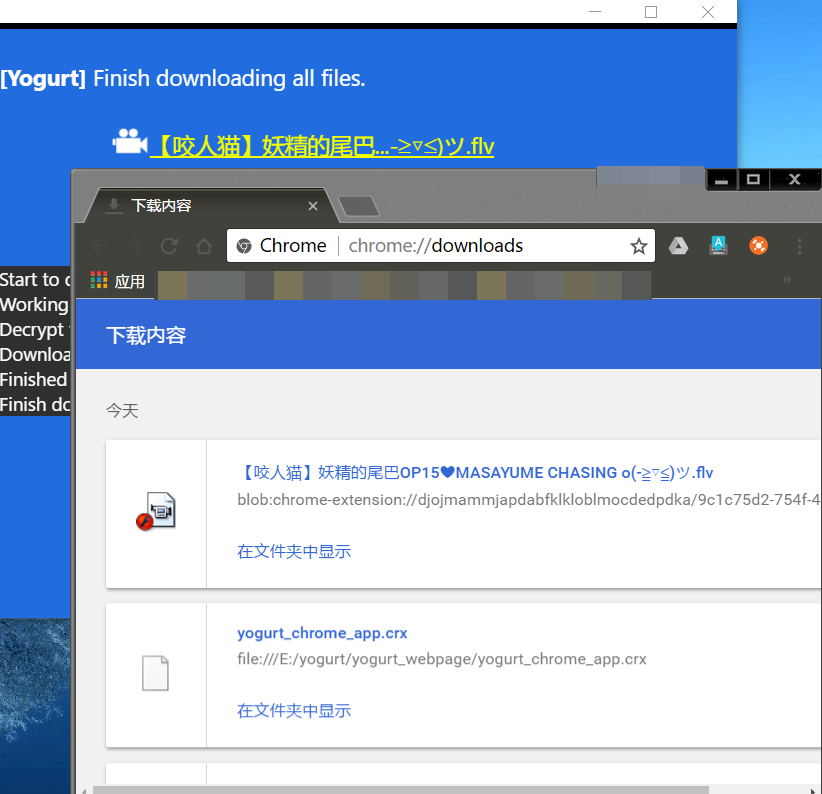
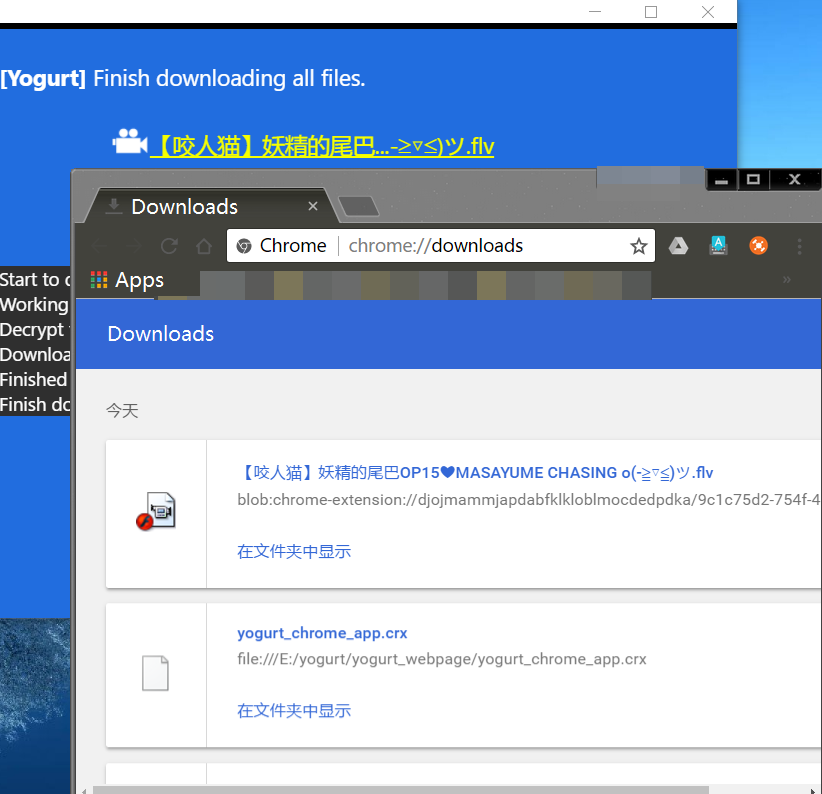
Update English

Changed region(s): [[0.1217, 0.3325, 0.2737, 0.4534], [0.1521, 0.2418, 0.3041, 0.272]]

diff --git a/support_vs.html b/support_vs.html
@@ -14,62 +14,62 @@
 <div id='container' class='div_container'>
 
 	<div class='div_box'>
-	<p class='p_title'><a style='text-decoration: none;' href='index.html'>Yogurt<img src='imgs/icon.png'></a>视频支持</p>
+	<p class='p_title'><a style='text-decoration: none;' href='index.html'>Yogurt<img src='imgs/icon.png'></a>Supported Websites</p>
 	</div>
 	
 	<div class='div_box'>
-	<p>(这个列表是2017年5月31日测试的结果。)</p>
-	<p>支持的页面</p>
+	<p>(Result of 05/31/2017)</p>
+	<p>Supported Websites</p>
 	<table>
-	  <tr><th>视频网站</th><th>网址</th><th>支持？</th></tr>
+	  <tr><th>Websites</th><th>URL</th><th>Supported?</th></tr>
 	  <tr><td>哔哩哔哩 Bilibili</td><td><a href='http://www.bilibili.com/' target='_target'>http://www.bilibili.com/</a></td><td>支持</td></tr>
-	  <tr><td>央视网</td><td><a href='http://www.cntv.cn/' target='_target'>http://www.cntv.cn/</a></td><td>支持</td></tr>
-	  <tr><td>土豆网</td><td><a href='http://www.tudou.com/' target='_target'>http://www.tudou.com/</a></td><td>支持</td></tr>
-	  <tr><td>优酷网</td><td><a href='http://www.youku.com/' target='_target'>http://www.youku.com/</a></td><td>支持</td></tr>
-	  <tr><td>新浪视频</td><td><a href='http://video.sina.com.cn/' target='_target'>http://video.sina.com.cn/</a></td><td>支持</td></tr>
-	  <tr><td>酷我音乐</td><td><a href='http://www.kuwo.cn/' target='_target'>http://www.kuwo.cn/</a></td><td>支持</td></tr>
-	  <tr><td>TED</td><td><a href='http://www.ted.com/' target='_target'>http://www.ted.com/</a></td><td>支持</td></tr>
-	  <tr><td>音悦Tai</td><td><a href='http://www.yinyuetai.com/' target='_target'>http://www.yinyuetai.com/</a></td><td>支持</td></tr>
-	  <tr><td>乐视</td><td><a href='http://www.letv.com/' target='_target'>http://www.letv.com/</a></td><td>支持</td></tr>
+	  <tr><td>央视网</td><td><a href='http://www.cntv.cn/' target='_target'>http://www.cntv.cn/</a></td><td>Yes</td></tr>
+	  <tr><td>土豆网</td><td><a href='http://www.tudou.com/' target='_target'>http://www.tudou.com/</a></td><td>Yes</td></tr>
+	  <tr><td>优酷网</td><td><a href='http://www.youku.com/' target='_target'>http://www.youku.com/</a></td><td>Yes</td></tr>
+	  <tr><td>新浪视频</td><td><a href='http://video.sina.com.cn/' target='_target'>http://video.sina.com.cn/</a></td><td>Yes</td></tr>
+	  <tr><td>酷我音乐</td><td><a href='http://www.kuwo.cn/' target='_target'>http://www.kuwo.cn/</a></td><td>Yes</td></tr>
+	  <tr><td>TED</td><td><a href='http://www.ted.com/' target='_target'>http://www.ted.com/</a></td><td>Yes</td></tr>
+	  <tr><td>音悦Tai</td><td><a href='http://www.yinyuetai.com/' target='_target'>http://www.yinyuetai.com/</a></td><td>Yes</td></tr>
+	  <tr><td>乐视</td><td><a href='http://www.letv.com/' target='_target'>http://www.letv.com/</a></td><td>Yes</td></tr>
 	</table>
-	<p>部分支持/近期开发中的页面</p>
+	<p>Partially Supported  / in Developing</p>
 	<table>
-	  <tr><th>视频网站</th><th>网址</th><th>视频下载？</th></tr>
-	  <tr><td>YouTube</td><td><a href='http://www.youtube.com/' target='_target'>http://www.youtube.com/</a></td><td>开发中</td></tr>
-	  <tr><td>豆瓣</td><td><a href='http://www.douban.com/' target='_target'>http://www.douban.com/</a></td><td>开发中</td></tr>
-	  <tr><td>凤凰视频</td><td><a href='http://v.ifeng.com/' target='_target'>http://v.ifeng.com/</a></td><td>开发中</td></tr>
-	  <tr><td>风行网</td><td><a href='http://www.fun.tv/' target='_target'>http://www.fun.tv/</a></td><td>开发中</td></tr>
-	  <tr><td>腾讯视频</td><td><a href='http://v.qq.com/' target='_target'>http://v.qq.com/</a></td><td>开发中</td></tr>
+	  <tr><th>Websites</th><th>URL</th><th>Supported?</th></tr>
+	  <tr><td>YouTube</td><td><a href='http://www.youtube.com/' target='_target'>http://www.youtube.com/</a></td><td>Developing</td></tr>
+	  <tr><td>豆瓣</td><td><a href='http://www.douban.com/' target='_target'>http://www.douban.com/</a></td><td>Developing</td></tr>
+	  <tr><td>凤凰视频</td><td><a href='http://v.ifeng.com/' target='_target'>http://v.ifeng.com/</a></td><td>Developing</td></tr>
+	  <tr><td>风行网</td><td><a href='http://www.fun.tv/' target='_target'>http://www.fun.tv/</a></td><td>Developing</td></tr>
+	  <tr><td>腾讯视频</td><td><a href='http://v.qq.com/' target='_target'>http://v.qq.com/</a></td><td>Developing</td></tr>
 	</table>
-	<p>未来开发中的页面</p>
+	<p>Plan in the Future</p>
 	<table>
-	  <tr><th>视频网站</th><th>网址</th><th>视频下载？</th></tr>
-	  <tr><td>爱奇艺</td><td><a href='http://www.iqiyi.com/' target='_target'>http://www.iqiyi.com/</a></td><td>开发中</td></tr>
-	  <tr><td>虾米</td><td><a href='http://www.xiami.com/' target='_target'>http://www.xiami.com/</a></td><td>开发中</td></tr>
-	  <tr><td>搜狐视频</td><td><a href='http://tv.sohu.com/' target='_target'>http://tv.sohu.com/</a></td><td>开发中</td></tr>
-	  <tr><td>酷6网</td><td><a href='http://www.ku6.com/' target='_target'>http://www.ku6.com/</a></td><td>开发中</td></tr>
-	  <tr><td>网易音乐</td><td><a href='http://music.163.com/' target='_target'>http://music.163.com/</a></td><td>开发中</td></tr>
-	  <tr><td>网易视频</td><td><a href='http://v.163.com/' target='_target'>http://v.163.com/</a></td><td>开发中</td></tr>
-	  <tr><td>56视频</td><td><a href='http://www.56.com/' target='_target'>http://www.56.com/</a></td><td>开发中</td></tr>
-	  <tr><td>爆米花网</td><td><a href='http://www.baomihua.com/' target='_target'>http://www.baomihua.com/</a></td><td>开发中</td></tr>
-	  <tr><td>acfun</td><td><a href='http://www.acfun.tv/' target='_target'>http://www.acfun.tv/</a></td><td>开发中</td></tr>
-	  <tr><td>DiliDili</td><td><a href='http://www.dilidili.com/' target='_target'>http://www.dilidili.com/</a></td><td>开发中</td></tr>	
-	  <tr><td>斗鱼</td><td><a href='http://www.douyutv.com/' target='_target'>http://www.douyutv.com/</a></td><td>开发中</td></tr>
-	  <tr><td>激动网</td><td><a href='http://www.joy.cn/' target='_target'>http://www.joy.cn/</a></td><td>开发中</td></tr>
-	  <tr><td>酷狗音乐</td><td><a href='http://www.kugou.com/' target='_target'>http://www.kugou.com/</a></td><td>开发中</td></tr>	
+	  <tr><th>Websites</th><th>URL</th><th>Supported?</th></tr>
+	  <tr><td>爱奇艺</td><td><a href='http://www.iqiyi.com/' target='_target'>http://www.iqiyi.com/</a></td><td>Developing</td></tr>
+	  <tr><td>虾米</td><td><a href='http://www.xiami.com/' target='_target'>http://www.xiami.com/</a></td><td>Developing</td></tr>
+	  <tr><td>搜狐视频</td><td><a href='http://tv.sohu.com/' target='_target'>http://tv.sohu.com/</a></td><td>Developing</td></tr>
+	  <tr><td>酷6网</td><td><a href='http://www.ku6.com/' target='_target'>http://www.ku6.com/</a></td><td>Developing</td></tr>
+	  <tr><td>网易音乐</td><td><a href='http://music.163.com/' target='_target'>http://music.163.com/</a></td><td>Developing</td></tr>
+	  <tr><td>网易视频</td><td><a href='http://v.163.com/' target='_target'>http://v.163.com/</a></td><td>Developing</td></tr>
+	  <tr><td>56视频</td><td><a href='http://www.56.com/' target='_target'>http://www.56.com/</a></td><td>Developing</td></tr>
+	  <tr><td>爆米花网</td><td><a href='http://www.baomihua.com/' target='_target'>http://www.baomihua.com/</a></td><td>Developing</td></tr>
+	  <tr><td>acfun</td><td><a href='http://www.acfun.tv/' target='_target'>http://www.acfun.tv/</a></td><td>Developing</td></tr>
+	  <tr><td>DiliDili</td><td><a href='http://www.dilidili.com/' target='_target'>http://www.dilidili.com/</a></td><td>Developing</td></tr>	
+	  <tr><td>斗鱼</td><td><a href='http://www.douyutv.com/' target='_target'>http://www.douyutv.com/</a></td><td>Developing</td></tr>
+	  <tr><td>激动网</td><td><a href='http://www.joy.cn/' target='_target'>http://www.joy.cn/</a></td><td>Developing</td></tr>
+	  <tr><td>酷狗音乐</td><td><a href='http://www.kugou.com/' target='_target'>http://www.kugou.com/</a></td><td>Developing</td></tr>	
 
-	  <tr><td>Twitter</td><td><a href='http://twitter.com/' target='_target'>http://twitter.com/</a></td><td>开发中</td></tr>
-	  <tr><td>VK</td><td><a href='http://vk.com/' target='_target'>http://vk.com/</a></td><td>开发中</td></tr>
-	  <tr><td>Vine</td><td><a href='https://vine.co/' target='_target'>https://vine.co/</a></td><td>开发中</td></tr>
-	  <tr><td>Vimeo</td><td><a href='https://vimeo.com/' target='_target'>https://vimeo.com/</a></td><td>开发中</td></tr>
-	  <tr><td>Vidto</td><td><a href='http://vidto.me/' target='_target'>http://vidto.me/</a></td><td>开发中</td></tr>
-	  <tr><td>Veoh</td><td><a href='http://www.veoh.com/' target='_target'>http://www.veoh.com/</a></td><td>开发中</td></tr>
-	  <tr><td>Tumblr</td><td><a href='https://www.tumblr.com/' target='_target'>https://www.tumblr.com/</a></td><td>开发中</td></tr>
+	  <tr><td>Twitter</td><td><a href='http://twitter.com/' target='_target'>http://twitter.com/</a></td><td>Developing</td></tr>
+	  <tr><td>VK</td><td><a href='http://vk.com/' target='_target'>http://vk.com/</a></td><td>Developing</td></tr>
+	  <tr><td>Vine</td><td><a href='https://vine.co/' target='_target'>https://vine.co/</a></td><td>Developing</td></tr>
+	  <tr><td>Vimeo</td><td><a href='https://vimeo.com/' target='_target'>https://vimeo.com/</a></td><td>Developing</td></tr>
+	  <tr><td>Vidto</td><td><a href='http://vidto.me/' target='_target'>http://vidto.me/</a></td><td>Developing</td></tr>
+	  <tr><td>Veoh</td><td><a href='http://www.veoh.com/' target='_target'>http://www.veoh.com/</a></td><td>Developing</td></tr>
+	  <tr><td>Tumblr</td><td><a href='https://www.tumblr.com/' target='_target'>https://www.tumblr.com/</a></td><td>Developing</td></tr>
 	</table>
 	</div>
 
 	<div class='div_box'>
-	<p>可能遇到的问题 <a href='faq.html'>FAQ page</a></p>
+	<p>Possible Questions <a href='faq.html'>FAQ page</a></p>
 	<p>Email yogurtNetDL@gmail.com</p>
 	<p>GitHub <a href='https://github.com/yogurtNetDL/yogurt_chrome_app' target='_blank'>https://github.com/yogurtNetDL/yogurt_chrome_app</a></p>
 	</div>

diff --git a/faq.html b/faq.html
@@ -14,37 +14,37 @@
 <div id='container' class='div_container'>
 
 	<div class='div_box'>
-	<p class='p_title'><a style='text-decoration: none;' href='index.html'>Yogurt<img src='imgs/icon.png'></a>常见问题</p>
+	<p class='p_title'><a style='text-decoration: none;' href='index.html'>Yogurt<img src='imgs/icon.png'></a>FAQ</p>
 	</div>
 	
 	<div class='div_box'>
-		<p id='q1' class='p_detailtitle'>Q: 这个扩展程序的工作原理是什么样子的？   <img class='arrow' src='imgs/downarrow.gif'></p>
+		<p id='q1' class='p_detailtitle'>Q: How does this extension work? <img class='arrow' src='imgs/downarrow.gif'></p>
 		<div id='a1'>
-			<p class='p_detail'>这个扩展程序通过模仿用户的访问行为，解析视频网站的视频网址，并将该网址直接提供给用户进行下载。<br>她的解析核心代码是一个python的扩展包you-get <a href='https://github.com/soimort/you-get' target='_blank'>https://github.com/soimort/you-get</a><br>这个扩展程序将上面的python扩展包集成到了服务器上，并通过代理访问的方式完成视频源地址的解析，因此免去了用户本地安装python的麻烦以及算法的更新。</p>
+			<p class='p_detail'>This extension mimicks the browsering activity of users to decrpyt the address of video streams and provides the address to user for download. <br>Her core was based on a Python package named you-get <a href='https://github.com/soimort/you-get' target='_blank'>https://github.com/soimort/you-get</a><br>We intergrated the package on our remote server so we can share it with everyone. <br> You don't need to know anything about programming and we keep you updated with the latest strategies of decrytions from you-get. </p>
 		</div>
-		<p id='q2'class='p_detailtitle'>Q: 我安装后找不到程序在哪里了怎么办？   <img class='arrow' src='imgs/downarrow.gif'></p>
+		<p id='q2'class='p_detailtitle'>Q: I cannot find my app after installation!   <img class='arrow' src='imgs/downarrow.gif'></p>
 		<div id='a2'>
-			<p class='p_detail'>Chrome默认左上角有个小应用图标。点击这个应用就可以看到你的应用列表。</p>
+			<p class='p_detail'>Here you should find the App icon on the top left corner of your Chrome browser</p>
 			<p align=center><img src="imgs/chrome_corner.png"></p>
-			<p class='p_detail'>此外，你还可以在应用页面，右键点击Yogurt Net Downloader的图标，发送至桌面快捷方式。</p>
+			<p class='p_detail'>In addtion, you can sent a shortcut of Yogurt to your desktop by right clicking on the icon. </p>
 			<p align=center><img width=70% height=auto src="imgs/chrome_apps.png"></p>
 		</div>
-		<p id='q3' class='p_detailtitle'>Q: 为什么不能从 Chrome 应用市场下载？   <img class='arrow' src='imgs/downarrow.gif'></p>
+		<p id='q3' class='p_detailtitle'>Q: Why cannot I find it in Chrome App Store?   <img class='arrow' src='imgs/downarrow.gif'></p>
 		<div id='a3'>
-			<p class='p_detail'>很遗憾，由于站长的拖延症，这个扩展程序开发完毕时，Chrome应用市场已经不接受新的应用申请了。</p>
+			<p class='p_detail'>Unfortunately, due to the my procrastination, the Chrome app market is now no longer accepting new apps when this extension is developed.</p>
 			<p align=center><img src='imgs/chromewebstore_snapshot.png' width=90%></p>
 			<p align=center><img src='imgs/emoji_regret.jpg' width=40%></p>
 		</div>
-		<p id='q4' class='p_detailtitle'>Q: Chrome提示扩展程序可能会损坏计算机，这个程序没有病毒吧？   <img class='arrow' src='imgs/downarrow.gif'></p>
+		<p id='q4' class='p_detailtitle'>Q: Chrome prompted that this extension may damage the computer. Is this program really not a virus?   <img class='arrow' src='imgs/downarrow.gif'></p>
 		<div id='a4'>
-			<p class='p_detail'>拍胸脯没有。</p>
-			<p class='p_detail'>详细请参见GitHub源码 <a href='https://github.com/yogurtNetDL/yogurt_chrome_app' target='_blank'>https://github.com/yogurtNetDL/yogurt_chrome_app</a></p>
-			<p class='p_detail'>此外添加扩展应用时，Chrome会提示该扩展应用所需要的权限。这个应用因为需要实现视频下载的功能，所以申请了基本的Chrome.Socket的使用权限。因此这个应用只可以和您的网络交换数据，它不会主动在您的电脑上添加/修改/删除任何数据。下载的视频文件也是通过Chrome的下载功能传递到本地的。</p>
+			<p class='p_detail'>Please</p>
+			<p class='p_detail'>Check the source code here <a href='https://github.com/yogurtNetDL/yogurt_chrome_app' target='_blank'>https://github.com/yogurtNetDL/yogurt_chrome_app</a></p>
+			<p class='p_detail'>In addition, because this application needs to communicate with internet to download videos, some basic permissions of Chrome.Socket were required. But this application can only exchange data with your network, it will not take the initiative to add / modify / delete any data on your computer. Downloaded video files are also delivered locally via Chrome's download function.</p>
 			<p align=center><img src='imgs/yogurt_access.png' width=70%></p>			
 		</div>
-		<p id='q5' class='p_detailtitle'>Q: 用这个程序下载视频会违法么？   <img class='arrow' src='imgs/downarrow.gif'></p>
+		<p id='q5' class='p_detailtitle'>Q: Is it illegal to download videos using this app?  <img class='arrow' src='imgs/downarrow.gif'></p>
 		<div id='a5'>
-			<p class='p_detail'>本扩展程序使用<a href='https://raw.githubusercontent.com/soimort/you-get/master/LICENSE.txt'>MIT 协议</a><br>THE SOFTWARE IS PROVIDED "AS IS", WITHOUT WARRANTY OF ANY KIND, EXPRESS OR IMPLIED, INCLUDING BUT NOT LIMITED TO THE WARRANTIES OF MERCHANTABILITY, FITNESS FOR A PARTICULAR PURPOSE AND NONINFRINGEMENT. IN NO EVENT SHALL THE AUTHORS OR COPYRIGHT HOLDERS BE LIABLE FOR ANY CLAIM, DAMAGES OR OTHER LIABILITY, WHETHER IN AN ACTION OF CONTRACT, TORT OR OTHERWISE, ARISING FROM, OUT OF OR IN CONNECTION WITH THE SOFTWARE OR THE USE OR OTHER DEALINGS IN THE SOFTWARE.<br>人话：如果你使用本软件进行盗版行为，或者非法行径，作者不为你负责.</p>
+			<p class='p_detail'><a href='https://raw.githubusercontent.com/soimort/you-get/master/LICENSE.txt'>MIT Licenses</a><br>THE SOFTWARE IS PROVIDED "AS IS", WITHOUT WARRANTY OF ANY KIND, EXPRESS OR IMPLIED, INCLUDING BUT NOT LIMITED TO THE WARRANTIES OF MERCHANTABILITY, FITNESS FOR A PARTICULAR PURPOSE AND NONINFRINGEMENT. IN NO EVENT SHALL THE AUTHORS OR COPYRIGHT HOLDERS BE LIABLE FOR ANY CLAIM, DAMAGES OR OTHER LIABILITY, WHETHER IN AN ACTION OF CONTRACT, TORT OR OTHERWISE, ARISING FROM, OUT OF OR IN CONNECTION WITH THE SOFTWARE OR THE USE OR OTHER DEALINGS IN THE SOFTWARE.<br>In human language: you are resposible for yourself. </p>
 		</div>
 	</div>
 

diff --git a/setup.html b/setup.html
@@ -14,57 +14,57 @@
 <div id='container' class='div_container'>
 
 	<div class='div_box'>
-	<p class='p_title'><a style='text-decoration: none;' href='index.html'>Yogurt<img src='imgs/icon.png'></a>安装
+	<p class='p_title'><a style='text-decoration: none;' href='index.html'>Yogurt<img src='imgs/icon.png'></a>Installation
 	</p>
 	</div>
 
 	<div id='step1_box' class='div_box'>
-	<p id='step1_title' class='p_subtitle'>第一步 获取一个安装包  [<img class='arrow' src='imgs/downarrow.gif'>]</p>
+	<p id='step1_title' class='p_subtitle'>Step 1, get the package  [<img class='arrow' src='imgs/downarrow.gif'>]</p>
 	<div id='step1_content' hidden>
-		<p class='p_detailtitle'>Chrome 应用市场</p>
-		<p class='p_detail' >Chrome 应用市场自2016年11月开始已经不接受新添加应用。</p>
-		<p class='p_detailtitle'>本站的链接</p>
-		<p class='p_detail' >请右键点击 <a href='yogurt_chrome_app_1.0.crx' target='_blank' download='yogurt_chrome_app_1.0.crx'>这个链接</a> ，选择 【链接另存为】</p>
-		<p class='p_detailtitle'>网盘链接</p>
-		<p class='p_detail' >百度云 链接 <a href='http://pan.baidu.com/s/1dF3Uc8L' target='_blank'>http://pan.baidu.com/s/1dF3Uc8L</a> 密码：q9f1</p>
-		<p class='p_detail'>Google Drive 链接 <a href='https://drive.google.com/file/d/0B3lKLX5vBN2BV2xfaGVxa05lNDg/view?usp=sharingl' target='_blank'>Yogurt_chrome_app.crx</a></p>
-		<p class='p_detailtitle'>GitHub 上的源代码</p>
+		<p class='p_detailtitle'>Chrome App Store</p>
+		<p class='p_detail' >The Chrome app market is no longer accepting new apps since November 2016.</p>
+		<p class='p_detailtitle'>Direct link to binaries</p>
+		<p class='p_detail' >Please save this <a href='yogurt_chrome_app_1.0.crx' target='_blank' download='yogurt_chrome_app_1.0.crx'>link</a> from the github depository</p>
+		<p class='p_detailtitle'>Cloud Storage</p>
+		<p class='p_detail' >Baidu Yun <a href='http://pan.baidu.com/s/1dF3Uc8L' target='_blank'>http://pan.baidu.com/s/1dF3Uc8L</a> PWD: q9f1</p>
+		<p class='p_detail'>Google Drive <a href='https://drive.google.com/file/d/0B3lKLX5vBN2BV2xfaGVxa05lNDg/view?usp=sharingl' target='_blank'>Yogurt_chrome_app.crx</a></p>
+		<p class='p_detailtitle'>GitHub Source Code is here</p>
 		<p class='p_detail' ><a href='https://github.com/yogurtNetDL/yogurt_chrome_app' target='_blank'>https://github.com/yogurtNetDL/yogurt_chrome_app</a></p>
 	</div>
 	</div>
 
 	<div id='step2_box' class='div_box'>
-	<p id='step2_title' class='p_subtitle'>第二步 添加到Chrome扩展程序  [<img class='arrow' src='imgs/downarrow.gif'>]</p>
+	<p id='step2_title' class='p_subtitle'>Step 2, add me to chrome extension [<img class='arrow' src='imgs/downarrow.gif'>]</p>
 	<div id='step2_content' hidden>
 		<p class='p_detailtitle'></p>
 		<div id='step2_1'>
-			<p class='p_detail'>将 yogurt_chrome_app.crx 文件保存到桌面，并将下面的链接复制到Chrome浏览器中打开</p>
+			<p class='p_detail'>Put "yogurt_chrome_app.crx" to desktop and open below link in your Chrome browser</p>
 			<p class='p_detail'>chrome://extensions/</p>
 			<p align=center><img src='imgs/step2_1.jpg' width=100% height=auto></p>
 		</div>
 		<div id='step2_2' hidden>
-			<p class='p_detail'>将 yogurt_chrome_app.crx 文件拖入进 Chrome</p>
+			<p class='p_detail'>Drag "yogurt_chrome_app.crx" to your Chrome browser</p>
 			<p align=center><img src='imgs/step2_2_1.jpg' width=100% height=auto></p>
-			<p class='p_detail'>点击 添加应用，完成安装。</p>
+			<p class='p_detail'>Click Add Extension</p>
 			<p align=center><img src='imgs/step2_2_2.jpg' width=100% height=auto></p>
 		</div>
 		<div id='step2_3' hidden>
-			<p class='p_detail'>在弹出的页面中点击 Yogurt Net Downloader 打开。</p>
-			<p class='p_detail'>以后可以在 Chrome 左上角点击 应用 图标找到我。</p>
+			<p class='p_detail'>In the popup windows find "Yogurt Net Downloader" </p>
+			<p class='p_detail'>Then you can find me here Chrome on the top left corner of your Chrome browser</p>
 			<p align=center><img src='imgs/step2_3_1.jpg' width=100% height=auto></p>
-			<p class='p_detail'>右键点击扩展应用的图标可以发送桌面快捷方式。</p>
+			<p class='p_detail'>Or you may sent a shortcut to your desktop by left click on my icon</p>
 			<p align=center><img src='imgs/step2_3_2.png' width=100% height=auto></p>
 		</div>
 		<div>
-			<p id='prev_step' class="p_detail" style="float:left;cursor:pointer">上一步</p>
-			<p id='next_step' class="p_detail" style="float:right;cursor:pointer">下一步</p>
+			<p id='prev_step' class="p_detail" style="float:left;cursor:pointer">Previous</p>
+			<p id='next_step' class="p_detail" style="float:right;cursor:pointer">Next</p>
 			<div style="clear: both;"></div>
 		</div>
 	</div>
 	</div>
 
 	<div class='div_box'>
-	<p>可能遇到的问题 <a href='faq.html'>FAQ page</a></p>
+	<p>Possible Questions <a href='faq.html'>FAQ page</a></p>
 	<p>Email yogurtNetDL@gmail.com</p>
 	<p>GitHub <a href='https://github.com/yogurtNetDL/yogurt_chrome_app' target='_blank'>https://github.com/yogurtNetDL/yogurt_chrome_app</a></p>
 	</div>

diff --git a/index.html b/index.html
@@ -17,49 +17,47 @@
 	<div id='show_navigation'><p class='p_subtitle'>展开导航  <img class='arrow' src='imgs/downarrow.gif'></p></div> -->
 	<p class='p_title'><a style='text-decoration: none;' href='index.html'>Yogurt<img src='imgs/icon.png'></a>
 	</p>
-	<p class='p_subtitle'>这是一个用来下载网站视频的<br>Chrome扩展程序</p>
+	<p class='p_subtitle'>This is a Chrome extension for<br>downloading videos from internet</p>
 	<div id='title_content'>
-	<p>所以你至少需要一个Chrome浏览器。</p>
-	<p><a href='support_vs.html'>点击查看目前支持的视频网站列表</a></p>
+	<p>You will need a Chrome browser to run this extension</p>
+	<p><a href='support_vs.html'>Click to see supported websites</a></p>
 	<p>Thanks to you-get project on github</p>
 	</div>
 	</div>
 
 	<div id='navigation' class='div_box'>
-	<a href='setup.html'><div class='navigator_bar'><p class='p_subtitle'>安装</p></div></a>
-	<a href='howtouse.html'><div class='navigator_bar'><p class='p_subtitle'>使用示范</p></div></a>
-	<a href='support_vs.html'><div class='navigator_bar'><p class='p_subtitle'>支持的视频网站</p></div></a>
-	<a href='legal.html'><div class='navigator_bar'><p class='p_subtitle'>免责声明</p>
+	<a href='setup.html'><div class='navigator_bar'><p class='p_subtitle'>Installation</p></div></a>
+	<a href='howtouse.html'><div class='navigator_bar'><p class='p_subtitle'>How to use</p></div></a>
+	<a href='support_vs.html'><div class='navigator_bar'><p class='p_subtitle'>Supported Websites</p></div></a>
+	<a href='legal.html'><div class='navigator_bar'><p class='p_subtitle'>Legal Statement</p>
 	</div></a>
 	</div>
 
 	<div class='div_box'>
-	<p class='p_subtitle'>为什么你要好好的用Yogurt</p>
-	<p>你欢喜于互联网上的富媒体内容，并为个人寻欢而储存</p>
-	<p>你喜悦观看的视频，然而不得保存；对个人设备无从控制，此乃违背开放互联网之行为</p>
-	<p>你寻求解脱于闭源软件或JavaScript代码，并禁止Flash运行</p>
-	<p>你为黑客精神与自由软件而欣喜</p>
-	<p class='p_subtitle'>Yogurt可以</p>
-	<p>下载流行网站之音视频, 如哔哩哔哩,优酷,土豆,TED... <a href='support_vs.html'>查看完整支持列表</a></p>
-	<p>于您心仪的媒体播放器中观看在线视频，脱离浏览器与广告</p>
-	<p>下载您喜欢网页上的图片</p>
-	<p>下载任何非HTML内容，例如二进制文件</p>
-	<p class='p_subtitle'>心动? 现在 <a href='setup.html'>安装</a> 并 <a href='howtouse.html'>查看使用范例</a></p>
+	<p class='p_subtitle'>Why should I use this extension?</p>
+	<p> - You enjoy the rich media content on the internet and would like to save for personal reason. </ P>
+<p> - Your enjoy watching video, but cannot save them; you feel that you have no control over your device, which is a violation of the spirit of the openning internet. - </p>
+	<p> - You are avoiding using non-open source software or JavaScript, Flash...</p>
+	<p> - You are happy with hacking and free software</p>
+	<p class='p_subtitle'>Using Yogurt, you can...</p>
+	<p> - Download audio and video from popular web site, such as beep miles beep, Youku, potatoes, TED... <a href='support_vs.html'>see my supported websites</a></p>
+	<p> - Enjoy your audios and videos anywhere without popup ad.</p>
+
+	<p class='p_subtitle'>That is what I am looking for! <br><a href='setup.html'>Let's install the extension</a></p> <p>and <a href='howtouse.html'>watch a step-by-step guide of using it. </a></p>
 	</div>
 
 	<div class='div_box'>
-	<p class='p_subtitle'>免责声明</p>
-	<p>本软件使用 MIT 协议.</p>
-	<p>请特别注意</p>
+	<p class='p_subtitle'>Legal Statement</p>
+	<p>MIT License</p>
 	<p>THE SOFTWARE IS PROVIDED "AS IS", WITHOUT WARRANTY OF ANY KIND, EXPRESS OR IMPLIED, INCLUDING BUT NOT LIMITED TO THE WARRANTIES OF MERCHANTABILITY, FITNESS FOR A PARTICULAR PURPOSE AND NONINFRINGEMENT. IN NO EVENT SHALL THE AUTHORS OR COPYRIGHT HOLDERS BE LIABLE FOR ANY CLAIM, DAMAGES OR OTHER LIABILITY, WHETHER IN AN ACTION OF CONTRACT, TORT OR OTHERWISE, ARISING FROM, OUT OF OR IN CONNECTION WITH THE SOFTWARE OR THE USE OR OTHER DEALINGS IN THE SOFTWARE.
-	<br>(一个中文翻译可在<a href='http://lucien.cc/?p=15' target=_blank>http://lucien.cc/?p=15</a> 查询。)</p>
-	<p>直白的翻译<br>
-	如果你使用本软件进行盗版行为，或者非法行径，作者不为你负责.<br>
-	我们仅提供代码, 如何使用请自行考虑.</p>
+	</p>
+	<p>Or in human language<br>
+	If you use this software for piracy, or illegal acts, the author is not responsible for you.
+We only provide the code, please consider how to use it properly.</p>
 	</div>
 
 	<div class='div_box'>
-	<p>可能遇到的问题 <a href='faq.html'>FAQ page</a></p>
+	<p>Possible Questions <a href='faq.html'>FAQ page</a></p>
 	<p>Email yogurtNetDL@gmail.com</p>
 	<p>GitHub <a href='https://github.com/yogurtNetDL/yogurt_chrome_app' target='_blank'>https://github.com/yogurtNetDL/yogurt_chrome_app</a></p>
 	</div>

diff --git a/howtouse.html b/howtouse.html
@@ -22,31 +22,31 @@
 	<div>
 		<p class='p_detailtitle'></p>
 		<div id='h_1'>
-			<p class='p_detail'>打开应用，复制视频的URL到输入框中。</p>
+			<p class='p_detail'>Open the app, and copy the URL of the video/audio webpage</p>
 			<p align=center><img src='imgs/h_step1.png' width=70% height=auto></p>
 		</div>
 		<div id='h_2' hidden>
-			<p class='p_detail'>打开应用，复制视频的URL到输入框中。</p>
+			<p class='p_detail'>Then wait for the downloading process</p>
 			<p align=center><img src='imgs/h_step2.png' width=70% height=auto></p>
 		</div>
 		<div id='h_3' hidden>
-			<p class='p_detail'>右键点击扩展应用的图标可以发送桌面快捷方式。</p>
+			<p class='p_detail'>Click the link to save the video</p>
 			<p align=center><img src='imgs/h_step3.png' width=70% height=auto></p>
 		</div>
 		<div id='h_4' hidden>
-			<p class='p_detail'>右键点击扩展应用的图标可以发送桌面快捷方式。</p>
+			<p class='p_detail'>You will find the video file in your download folder</p>
 			<p align=center><img src='imgs/h_step4.png' width=80% height=auto></p>
 		</div>
 		<div>
-			<p id='prev_step' class="p_detail" style="float:left;cursor:pointer">上一步</p>
-			<p id='next_step' class="p_detail" style="float:right;cursor:pointer">下一步</p>
+			<p id='prev_step' class="p_detail" style="float:left;cursor:pointer">Previous</p>
+			<p id='next_step' class="p_detail" style="float:right;cursor:pointer">Next</p>
 			<div style="clear: both;"></div>
 		</div>
 	</div>
 	</div>
 
 	<div class='div_box'>
-	<p>可能遇到的问题 <a href='faq.html'>FAQ page</a></p>
+	<p>Possible Questions <a href='faq.html'>FAQ page</a></p>
 	<p>Email yogurtNetDL@gmail.com</p>
 	<p>GitHub <a href='https://github.com/yogurtNetDL/yogurt_chrome_app' target='_blank'>https://github.com/yogurtNetDL/yogurt_chrome_app</a></p>
 	</div>

diff --git a/legal.html b/legal.html
@@ -14,21 +14,20 @@
 <div id='container' class='div_container'>
 
 	<div class='div_box'>
-	<p class='p_title'><a style='text-decoration: none;' href='index.html'>Yogurt<img src='imgs/icon.png'></a>免责声明</p>
+	<p class='p_title'><a style='text-decoration: none;' href='index.html'>Yogurt<img src='imgs/icon.png'></a>Legal Statement</p>
 	</div>
 	
 	<div class='div_box'>
-	<p>本软件使用 MIT 协议.</p>
-	<p>请特别注意</p>
+	<p>MIT License</p>
 	<p>THE SOFTWARE IS PROVIDED "AS IS", WITHOUT WARRANTY OF ANY KIND, EXPRESS OR IMPLIED, INCLUDING BUT NOT LIMITED TO THE WARRANTIES OF MERCHANTABILITY, FITNESS FOR A PARTICULAR PURPOSE AND NONINFRINGEMENT. IN NO EVENT SHALL THE AUTHORS OR COPYRIGHT HOLDERS BE LIABLE FOR ANY CLAIM, DAMAGES OR OTHER LIABILITY, WHETHER IN AN ACTION OF CONTRACT, TORT OR OTHERWISE, ARISING FROM, OUT OF OR IN CONNECTION WITH THE SOFTWARE OR THE USE OR OTHER DEALINGS IN THE SOFTWARE.
-	<br>(一个中文翻译可在<a href='http://lucien.cc/?p=15' target=_blank>http://lucien.cc/?p=15</a> 查询。)</p>
-	<p>直白的翻译<br>
-	如果你使用本软件进行盗版行为，或者非法行径，作者不为你负责.<br>
-	我们仅提供代码, 如何使用请自行考虑.</p>
+	</p>
+	<p>Or in human language<br>
+	If you use this software for piracy, or illegal acts, the author is not responsible for you.
+We only provide the code, please consider how to use it properly.</p>
 	</div>
 
 	<div class='div_box'>
-	<p>可能遇到的问题 <a href='faq.html'>FAQ page</a></p>
+	<p>Possible Questions <a href='faq.html'>FAQ page</a></p>
 	<p>Email yogurtNetDL@gmail.com</p>
 	<p>GitHub <a href='https://github.com/yogurtNetDL/yogurt_chrome_app' target='_blank'>https://github.com/yogurtNetDL/yogurt_chrome_app</a></p>
 	</div>
